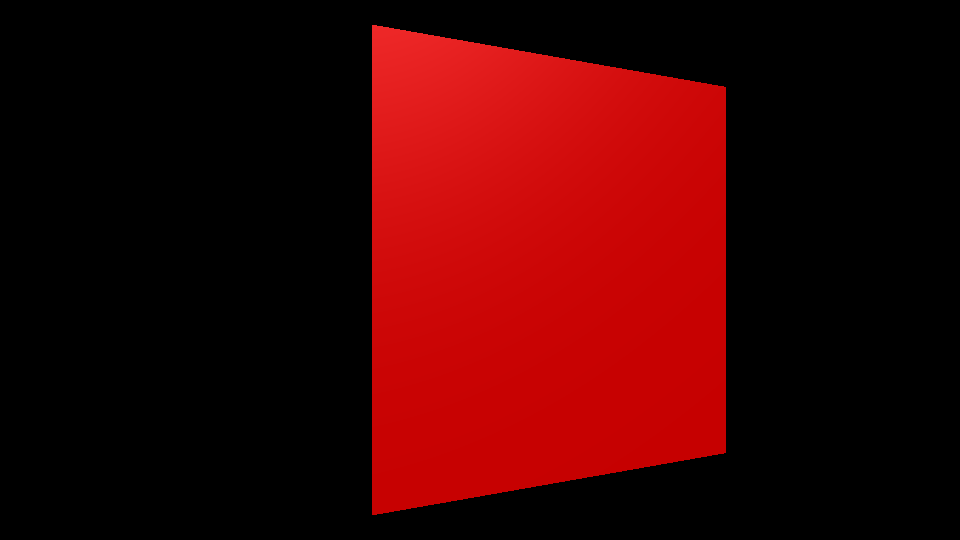
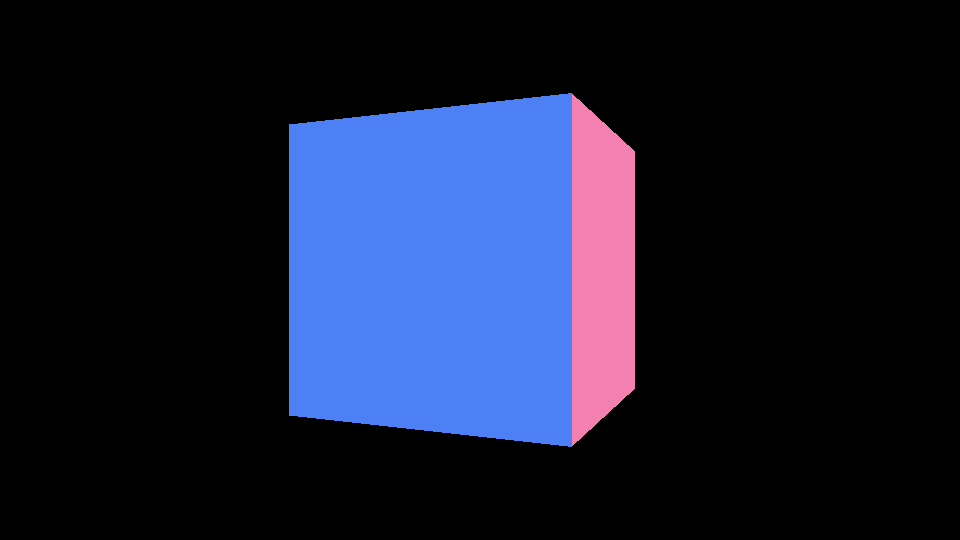
コードをシンプルに（マテリアルをMeshStandardMaterialに、カメラの引数からニアーとファーを省略）

diff --git a/samples/quickstart.html b/samples/quickstart.html
@@ -17,26 +17,21 @@
       const renderer = new THREE.WebGLRenderer({
         canvas: document.querySelector('#myCanvas')
       });
+      renderer.setPixelRatio(window.devicePixelRatio);
       renderer.setSize(width, height);
 
       // シーンを作成
       const scene = new THREE.Scene();
 
       // カメラを作成
-      const camera = new THREE.PerspectiveCamera(45, width / height, 1, 10000);
+      const camera = new THREE.PerspectiveCamera(45, width / height);
       camera.position.set(0, 0, +1000);
 
       // 箱を作成
-      const geometry = new THREE.BoxGeometry(500, 500, 500);
-      const material = new THREE.MeshPhongMaterial({color: 0xFF0000});
+      const geometry = new THREE.BoxGeometry(400, 400, 400);
+      const material = new THREE.MeshNormalMaterial();
       const box = new THREE.Mesh(geometry, material);
       scene.add(box);
-
-      // 平行光源
-      const directionalLight = new THREE.DirectionalLight(0xFFFFFF);
-      directionalLight.position.set(1, 1, 1);
-      // シーンに追加
-      scene.add(directionalLight);
 
       tick();
 

diff --git a/samples/material_color.html b/samples/material_color.html
@@ -22,13 +22,13 @@
       const scene = new THREE.Scene();
 
       // カメラを作成
-      const camera = new THREE.PerspectiveCamera(45, width / height, 1, 10000);
+      const camera = new THREE.PerspectiveCamera(45, width / height);
       camera.position.set(0, 0, +1000);
 
       // 球体を作成
       const geometry = new THREE.SphereGeometry(300, 30, 30);
       // マテリアルを作成
-      const material = new THREE.MeshPhongMaterial({color: 0xFF0000});
+      const material = new THREE.MeshStandardMaterial({color: 0xFF0000});
       // メッシュを作成
       const mesh = new THREE.Mesh(geometry, material);
       // 3D空間にメッシュを追加
@@ -44,8 +44,6 @@
 
       // 毎フレーム時に実行されるループイベントです
       function tick() {
-        // メッシュを回転させる
-        mesh.rotation.y += 0.01;
         // レンダリング
         renderer.render(scene, camera);
 

diff --git a/samples/material_texture.html b/samples/material_texture.html
@@ -23,7 +23,7 @@
       const scene = new THREE.Scene();
 
       // カメラを作成
-      const camera = new THREE.PerspectiveCamera(45, width / height, 1, 10000);
+      const camera = new THREE.PerspectiveCamera(45, width / height);
       camera.position.set(0, 0, +1000);
 
       // 球体を作成
@@ -32,7 +32,7 @@
       const loader = new THREE.TextureLoader();
       const texture = loader.load('imgs/earthmap1k.jpg');
       // マテリアルにテクスチャーを設定
-      const material = new THREE.MeshPhongMaterial({
+      const material = new THREE.MeshStandardMaterial({
         map: texture
       });
       // メッシュを作成
@@ -50,8 +50,6 @@
 
       // 毎フレーム時に実行されるループイベントです
       function tick() {
-        // メッシュを回転させる
-        mesh.rotation.y += 0.01;
         // レンダリング
         renderer.render(scene, camera);
 

diff --git a/samples/camera_basic_earth.html b/samples/camera_basic_earth.html
@@ -23,7 +23,7 @@
       const scene = new THREE.Scene();
 
       // カメラを作成
-      const camera = new THREE.PerspectiveCamera(45, width / height, 1, 10000);
+      const camera = new THREE.PerspectiveCamera(45, width / height);
 
       // 平行光源を作成
       const directionalLight = new THREE.DirectionalLight(0xFFFFFF);
@@ -31,7 +31,7 @@
       scene.add(directionalLight);
 
       // マテリアルを作成
-      const material = new THREE.MeshPhongMaterial({
+      const material = new THREE.MeshStandardMaterial({
         map: new THREE.TextureLoader().load('imgs/earthmap1k.jpg'),
         side: THREE.DoubleSide,
       });

diff --git a/samples/camera_orbitcontrols.html b/samples/camera_orbitcontrols.html
@@ -24,7 +24,7 @@
       const scene = new THREE.Scene();
 
       // カメラを作成
-      const camera = new THREE.PerspectiveCamera(45, width / height, 1, 10000);
+      const camera = new THREE.PerspectiveCamera(45, width / height);
       // カメラの初期座標を設定
       camera.position.set(0, 0, 1000);
 
@@ -42,7 +42,7 @@
       scene.add(directionalLight);
 
       // マテリアルを作成
-      const material = new THREE.MeshPhongMaterial({
+      const material = new THREE.MeshStandardMaterial({
         map: new THREE.TextureLoader().load("imgs/earthmap1k.jpg")
       });
 

diff --git a/samples/points.html b/samples/points.html
@@ -18,13 +18,14 @@
       const renderer = new THREE.WebGLRenderer({
         canvas: document.querySelector('#myCanvas'),
       });
+      renderer.setPixelRatio(window.devicePixelRatio);
       renderer.setSize(width, height);
 
       // シーンを作成
       const scene = new THREE.Scene();
 
       // カメラを作成
-      const camera = new THREE.PerspectiveCamera(45, width / height, 1, 10000);
+      const camera = new THREE.PerspectiveCamera(45, width / height);
 
       // 星屑を作成します (カメラの動きをわかりやすくするため)
       createStarField();

diff --git a/samples/geometry_general.html b/samples/geometry_general.html
@@ -32,7 +32,7 @@
       scene.add(container);
 
       // マテリアルを作成
-      const material = new THREE.MeshPhongMaterial({
+      const material = new THREE.MeshStandardMaterial({
         color: 0xFF0000,
         side: THREE.DoubleSide
       });
@@ -42,7 +42,7 @@
       directionalLight.position.set(1, 1, 1);
       scene.add(directionalLight);
       // 環境光を作成
-      const ambientLight = new THREE.AmbientLight(0x666666);
+      const ambientLight = new THREE.AmbientLight(0x999999);
       scene.add(ambientLight);
 
       // ジオメトリを作成

diff --git a/samples/camera_basic.html b/samples/camera_basic.html
@@ -23,7 +23,7 @@
       const scene = new THREE.Scene();
 
       // カメラを作成
-      const camera = new THREE.PerspectiveCamera(45, width / height, 1, 10000);
+      const camera = new THREE.PerspectiveCamera(45, width / height);
 
       // 直方体を作成
       const material = new THREE.MeshNormalMaterial({wireframe: true});

diff --git a/samples/camera_mosue_drag.html b/samples/camera_mosue_drag.html
@@ -29,7 +29,7 @@
       const scene = new THREE.Scene();
 
       // カメラを作成
-      const camera = new THREE.PerspectiveCamera(45, width / height, 1, 10000);
+      const camera = new THREE.PerspectiveCamera(45, width / height);
 
       // 平行光源を作成
       const directionalLight = new THREE.DirectionalLight(0xFFFFFF);

diff --git a/samples/camera_mouse_x.html b/samples/camera_mouse_x.html
@@ -25,7 +25,7 @@
       const scene = new THREE.Scene();
 
       // カメラを作成
-      const camera = new THREE.PerspectiveCamera(45, width / height, 1, 10000);
+      const camera = new THREE.PerspectiveCamera(45, width / height);
 
       // 平行光源を作成
       const directionalLight = new THREE.DirectionalLight(0xFFFFFF);

diff --git a/samples/camera_orbitcontrols_basic.html b/samples/camera_orbitcontrols_basic.html
@@ -25,7 +25,7 @@
       const scene = new THREE.Scene();
 
       // カメラを作成
-      const camera = new THREE.PerspectiveCamera(45, width / height, 1, 10000);
+      const camera = new THREE.PerspectiveCamera(45, width / height);
       // カメラの初期座標を設定
       camera.position.set(0, 0, 1000);
 

diff --git a/docs/material_basic.md b/docs/material_basic.md
@@ -9,7 +9,7 @@
 
 ![](https://ics.media/wp-content/uploads/2014/01/140926_away_8.png)
 
-代表的なマテリアルとして「単色塗りのマテリアル」と「画像を使ったマテリアル」の二種類があります。どちらも`THREE.MeshPhongMaterial`クラスを使用しますが、コンストラクタの引数に色(16進数表記の色)か画像テクスチャを指定するかで自動的にそれに適したマテリアルになります。
+代表的なマテリアルとして「単色塗りのマテリアル」と「画像を使ったマテリアル」の二種類があります。どちらも`THREE.MeshStandardMaterial`クラスを使用しますが、コンストラクタの引数に色(16進数表記の色)か画像テクスチャを指定するかで自動的にそれに適したマテリアルになります。
 
 ## マテリアルを実装してみる
 
@@ -39,7 +39,7 @@ function init() {
 
   // 球体を作成
   const geometry = new THREE.SphereGeometry(300, 30, 30);
-  const material = new THREE.MeshPhongMaterial({color: 0xFF0000});
+  const material = new THREE.MeshStandardMaterial({color: 0xFF0000});
   // メッシュを作成
   const mesh = new THREE.Mesh(geometry, material);
   // 3D空間にメッシュを追加
@@ -73,20 +73,23 @@ function init() {
 - [サンプルのソースコードを確認する](../samples/material_color.html)
 
 
-Three.jsのオブジェクトの作成手順として(1)マテリアルを作成 (2)ジオメトリを作成 (3)メッシュを作成という3つの手順を踏むことになります。上の例では`THREE.SphereGeometry`(球体の形状)と`THREE.MeshPhongMaterial`クラスのインスタンスを作成したあとに、`THREE.Mesh`クラスのコンストラクタにそれぞれを指定しています。
+Three.jsのオブジェクトの作成手順として(1)マテリアルを作成 (2)ジオメトリを作成 (3)メッシュを作成という3つの手順を踏むことになります。上の例では`THREE.SphereGeometry`(球体の形状)と`THREE.MeshStandardMaterial`クラスのインスタンスを作成したあとに、`THREE.Mesh`クラスのコンストラクタにそれぞれを指定しています。
 
 ```js
 // 球体を作成
 const geometry = new THREE.SphereGeometry(300, 30, 30);
 // マテリアルを作成
-const material = new THREE.MeshPhongMaterial({color: 0xFF0000});
+const material = new THREE.MeshStandardMaterial({color: 0xFF0000});
 // メッシュを作成
 const mesh = new THREE.Mesh(geometry, material);
 // 3D空間にメッシュを追加
 scene.add(mesh);
 ```
 
-ライティングがないと陰影がなく3Dの質感がわからないため、上記のスクリプトでは冒頭で`THREE.DirectionalLight`クラスのインスタンスを作成しています。`THREE.DirectionalLight`クラスは指定した方向からライトを適用することができます。これを**平行光源**といいます。
+
+### ライトを作る
+
+ライティングがないと陰影がなく画面が真っ暗となり、3Dの質感がわからないため、上記のスクリプトでは冒頭で`THREE.DirectionalLight`クラスのインスタンスを作成しています。`THREE.DirectionalLight`クラスは指定した方向からライトを適用することができます。これを**平行光源**といいます。
 
 
 ```js
@@ -147,7 +150,7 @@ function init() {
   const loader = new THREE.TextureLoader();
   const texture = loader.load('imgs/earthmap1k.jpg');
   // マテリアルにテクスチャーを設定
-  const material = new THREE.MeshPhongMaterial({
+  const material = new THREE.MeshStandardMaterial({
     map: texture
   });
   // メッシュを作成
@@ -182,7 +185,7 @@ function init() {
 const loader = new THREE.TextureLoader();
 const texture = loader.load('imgs/earthmap1k.jpg');
 // マテリアルにテクスチャーを設定
-const material = new THREE.MeshPhongMaterial({
+const material = new THREE.MeshStandardMaterial({
   map: texture
 });
 ```
@@ -198,7 +201,7 @@ const material = new THREE.MeshPhongMaterial({
 
 ```js
 // マテリアルにテクスチャーを設定
-const material = new THREE.MeshPhongMaterial({
+const material = new THREE.MeshStandardMaterial({
   map: new THREE.TextureLoader().load('imgs/earthmap1k.jpg')
 });
 ```
